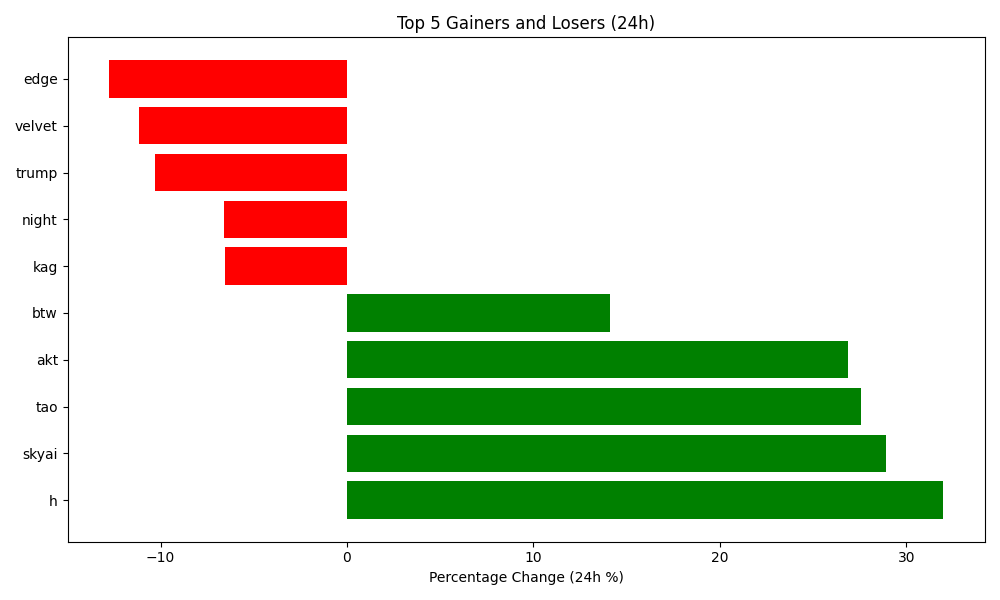
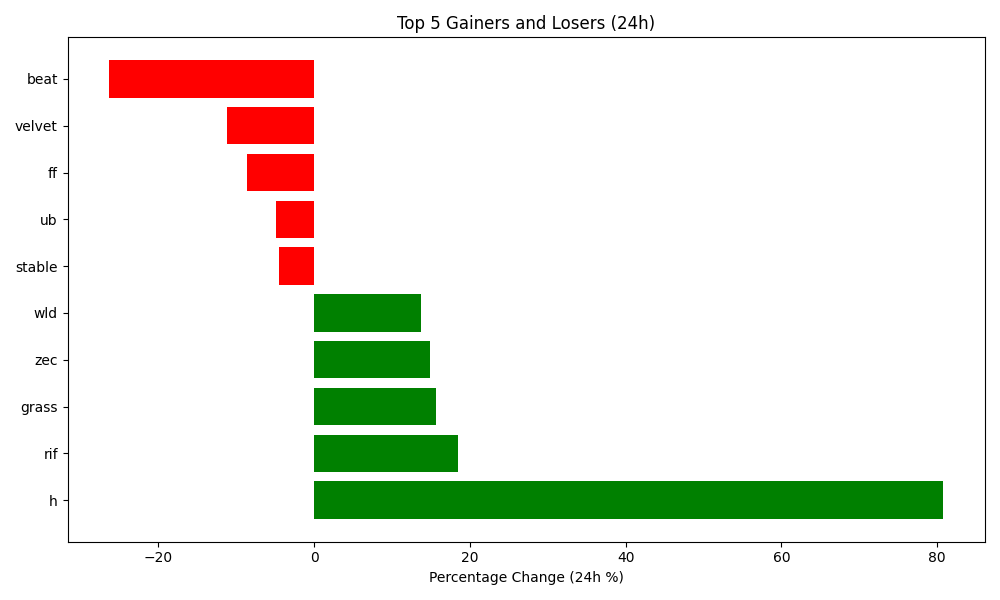
Auto-update crypto data and plot

diff --git a/README.md b/README.md
@@ -4,7 +4,7 @@ Author: Hitesh Agrawal
 This repository automatically tracks the top 5 gaining, top 5 losing, and top 5 highest volume cryptocurrencies in the last 24 hours using the CoinGecko API, Python, Matplotlib, and GitHub Actions updates the below content everyday at midnight.
 
 <!-- START_DYNAMIC_CONTENT -->
-Last updated: 2026-06-14 02:54 UTC
+Last updated: 2026-06-15 02:58 UTC
 
 ![Crypto Movers Plot](crypto_movers_plot.png)
 
@@ -12,33 +12,33 @@ Last updated: 2026-06-14 02:54 UTC
 
 | Rank | Coin | Price Change (24h %) | Volume (USD) | Current Price (USD) |
 | :--: | :--: | :------------------: | :----------: | :-----------------: |
-| 1 | h | 31.99% | $68,340,196 | $0.2896 |
-| 2 | skyai | 28.90% | $41,339,988 | $0.3673 |
-| 3 | tao | 27.56% | $592,837,894 | $273.9700 |
-| 4 | akt | 26.88% | $17,075,015 | $0.7760 |
-| 5 | btw | 14.09% | $12,951,170 | $0.0903 |
+| 1 | h | 80.78% | $127,671,641 | $0.5248 |
+| 2 | rif | 18.47% | $28,777,940 | $0.1285 |
+| 3 | grass | 15.60% | $28,962,230 | $0.4507 |
+| 4 | zec | 14.92% | $513,939,229 | $486.0300 |
+| 5 | wld | 13.68% | $704,824,767 | $0.5776 |
 
 
 **👇 Top 5 Losers (24h)**
 
 | Rank | Coin | Price Change (24h %) | Volume (USD) | Current Price (USD) |
 | :--: | :--: | :------------------: | :----------: | :-----------------: |
-| 1 | edge | -12.75% | $19,763,426 | $0.3861 |
-| 2 | velvet | -11.16% | $46,887,614 | $0.4168 |
-| 3 | trump | -10.28% | $445,244,954 | $2.0800 |
-| 4 | night | -6.61% | $79,493,557 | $0.0328 |
-| 5 | kag | -6.55% | $212,954 | $63.4000 |
+| 1 | beat | -26.29% | $58,830,569 | $5.4500 |
+| 2 | velvet | -11.14% | $42,243,104 | $0.3713 |
+| 3 | ff | -8.55% | $27,112,373 | $0.0714 |
+| 4 | ub | -4.93% | $6,926,245 | $0.1222 |
+| 5 | stable | -4.51% | $16,019,965 | $0.0355 |
 
 
 **💎 Top 5 by Trade Volume (24h)**
 
 | Rank | Coin | Price Change (24h %) | Volume (USD) | Current Price (USD) |
 | :--: | :--: | :------------------: | :----------: | :-----------------: |
-| 1 | usdt | 0.00% | $30,413,172,264 | $0.9995 |
-| 2 | btc | 1.44% | $17,768,143,739 | $64,464.0000 |
-| 3 | usdc | -0.00% | $5,598,215,338 | $0.9998 |
-| 4 | eth | 0.97% | $5,474,240,652 | $1,681.6300 |
-| 5 | sol | 2.87% | $1,602,629,021 | $68.8300 |
+| 1 | usdt | -0.00% | $39,873,882,607 | $0.9995 |
+| 2 | btc | 1.46% | $23,383,964,531 | $65,414.0000 |
+| 3 | eth | 2.02% | $8,711,548,085 | $1,715.8900 |
+| 4 | usdc | -0.01% | $7,481,448,016 | $0.9997 |
+| 5 | sol | 3.04% | $1,951,703,958 | $70.9100 |
 
 
 <!-- END_DYNAMIC_CONTENT -->
